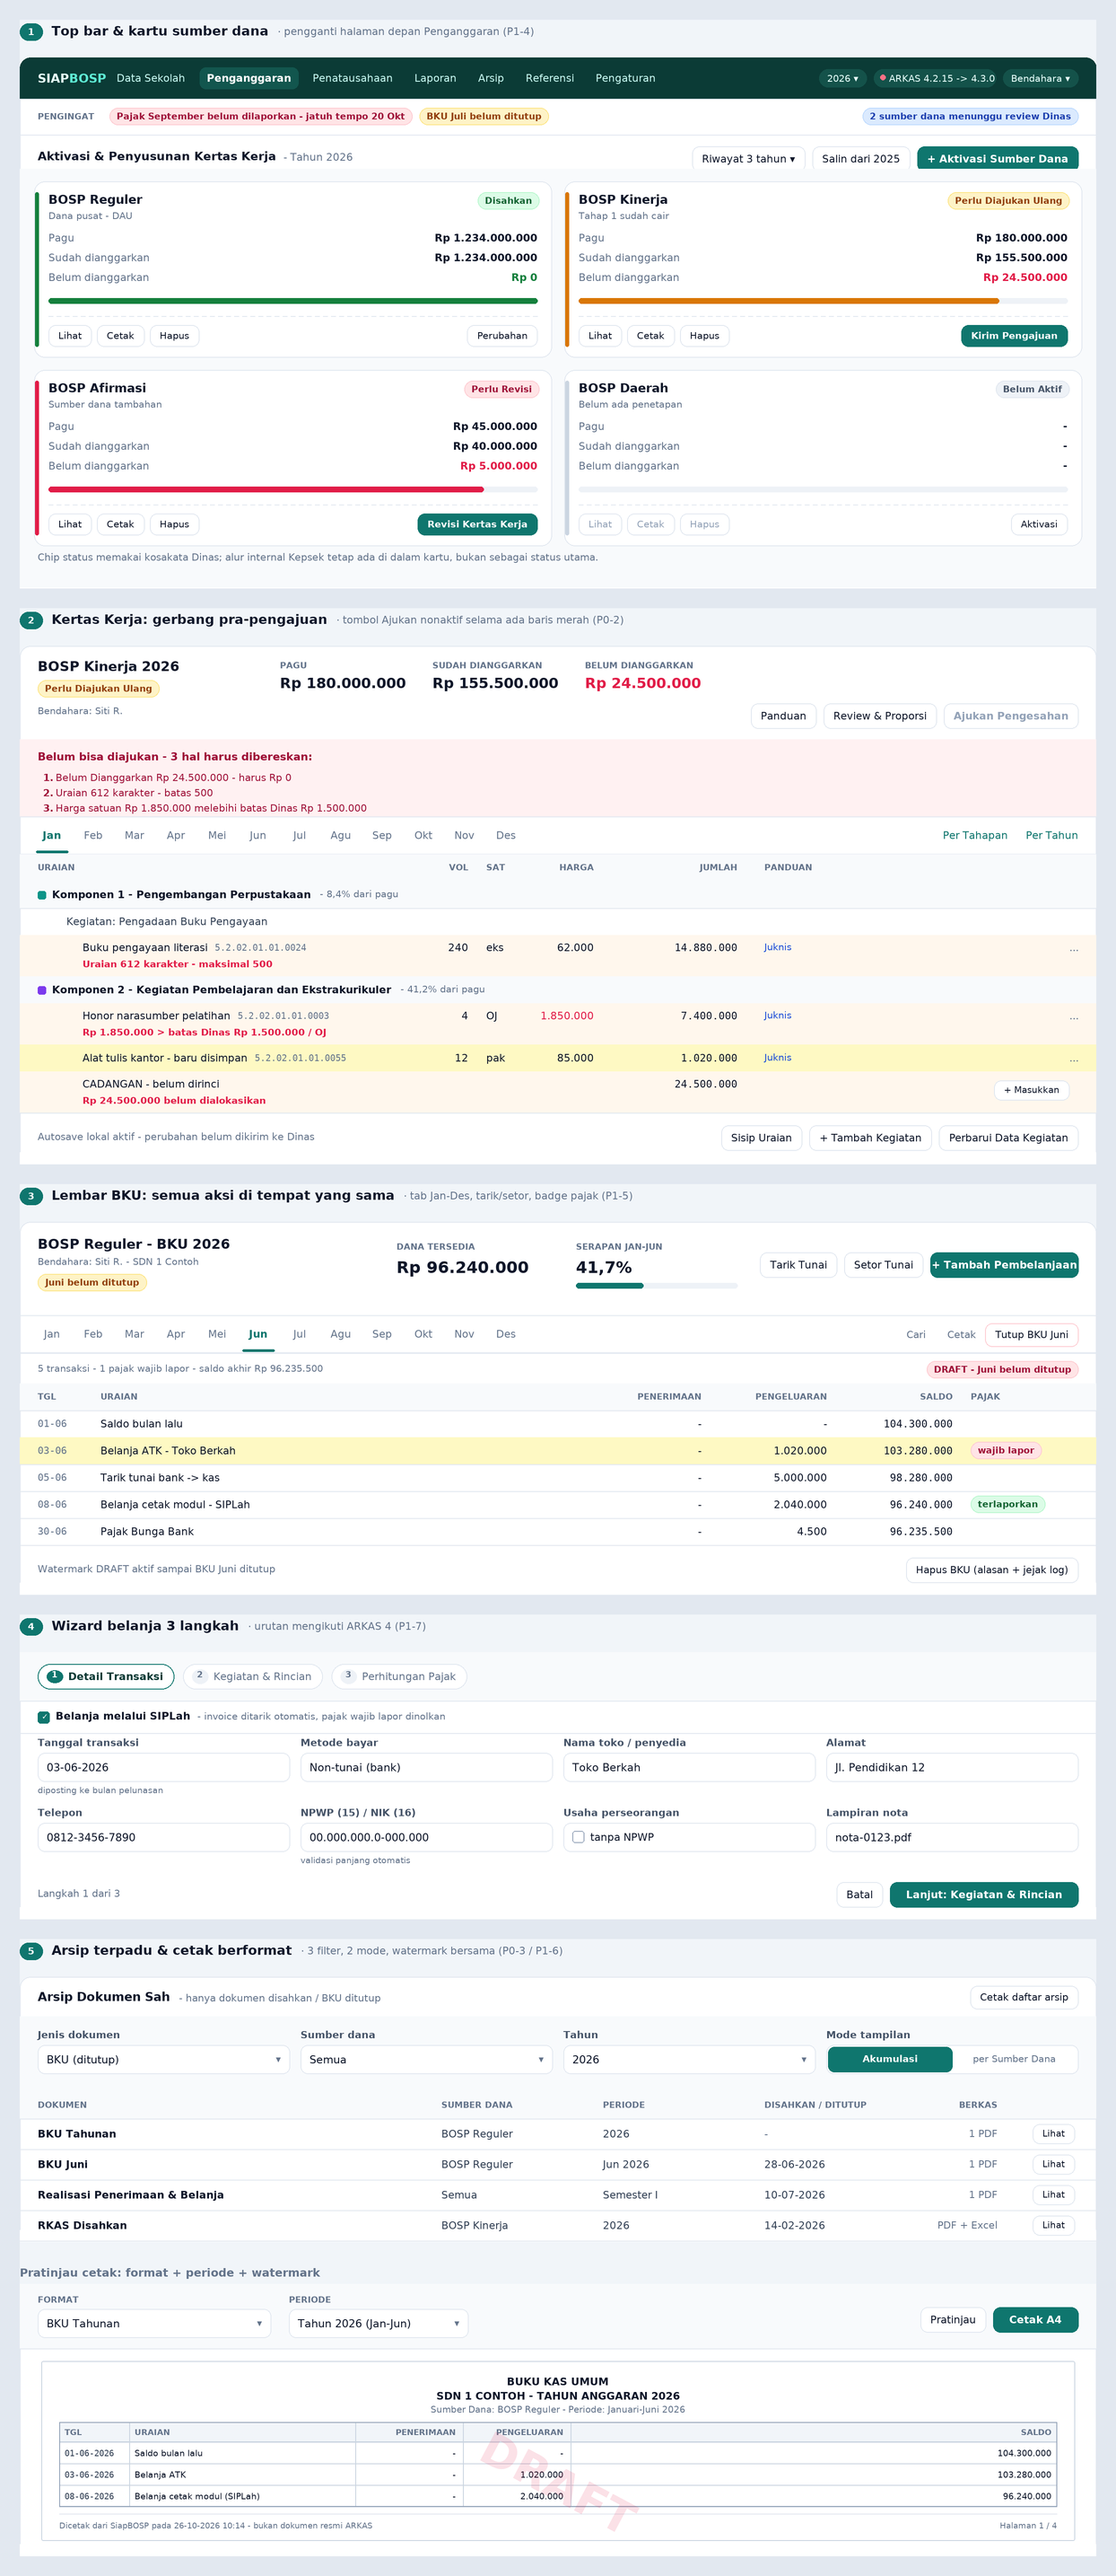
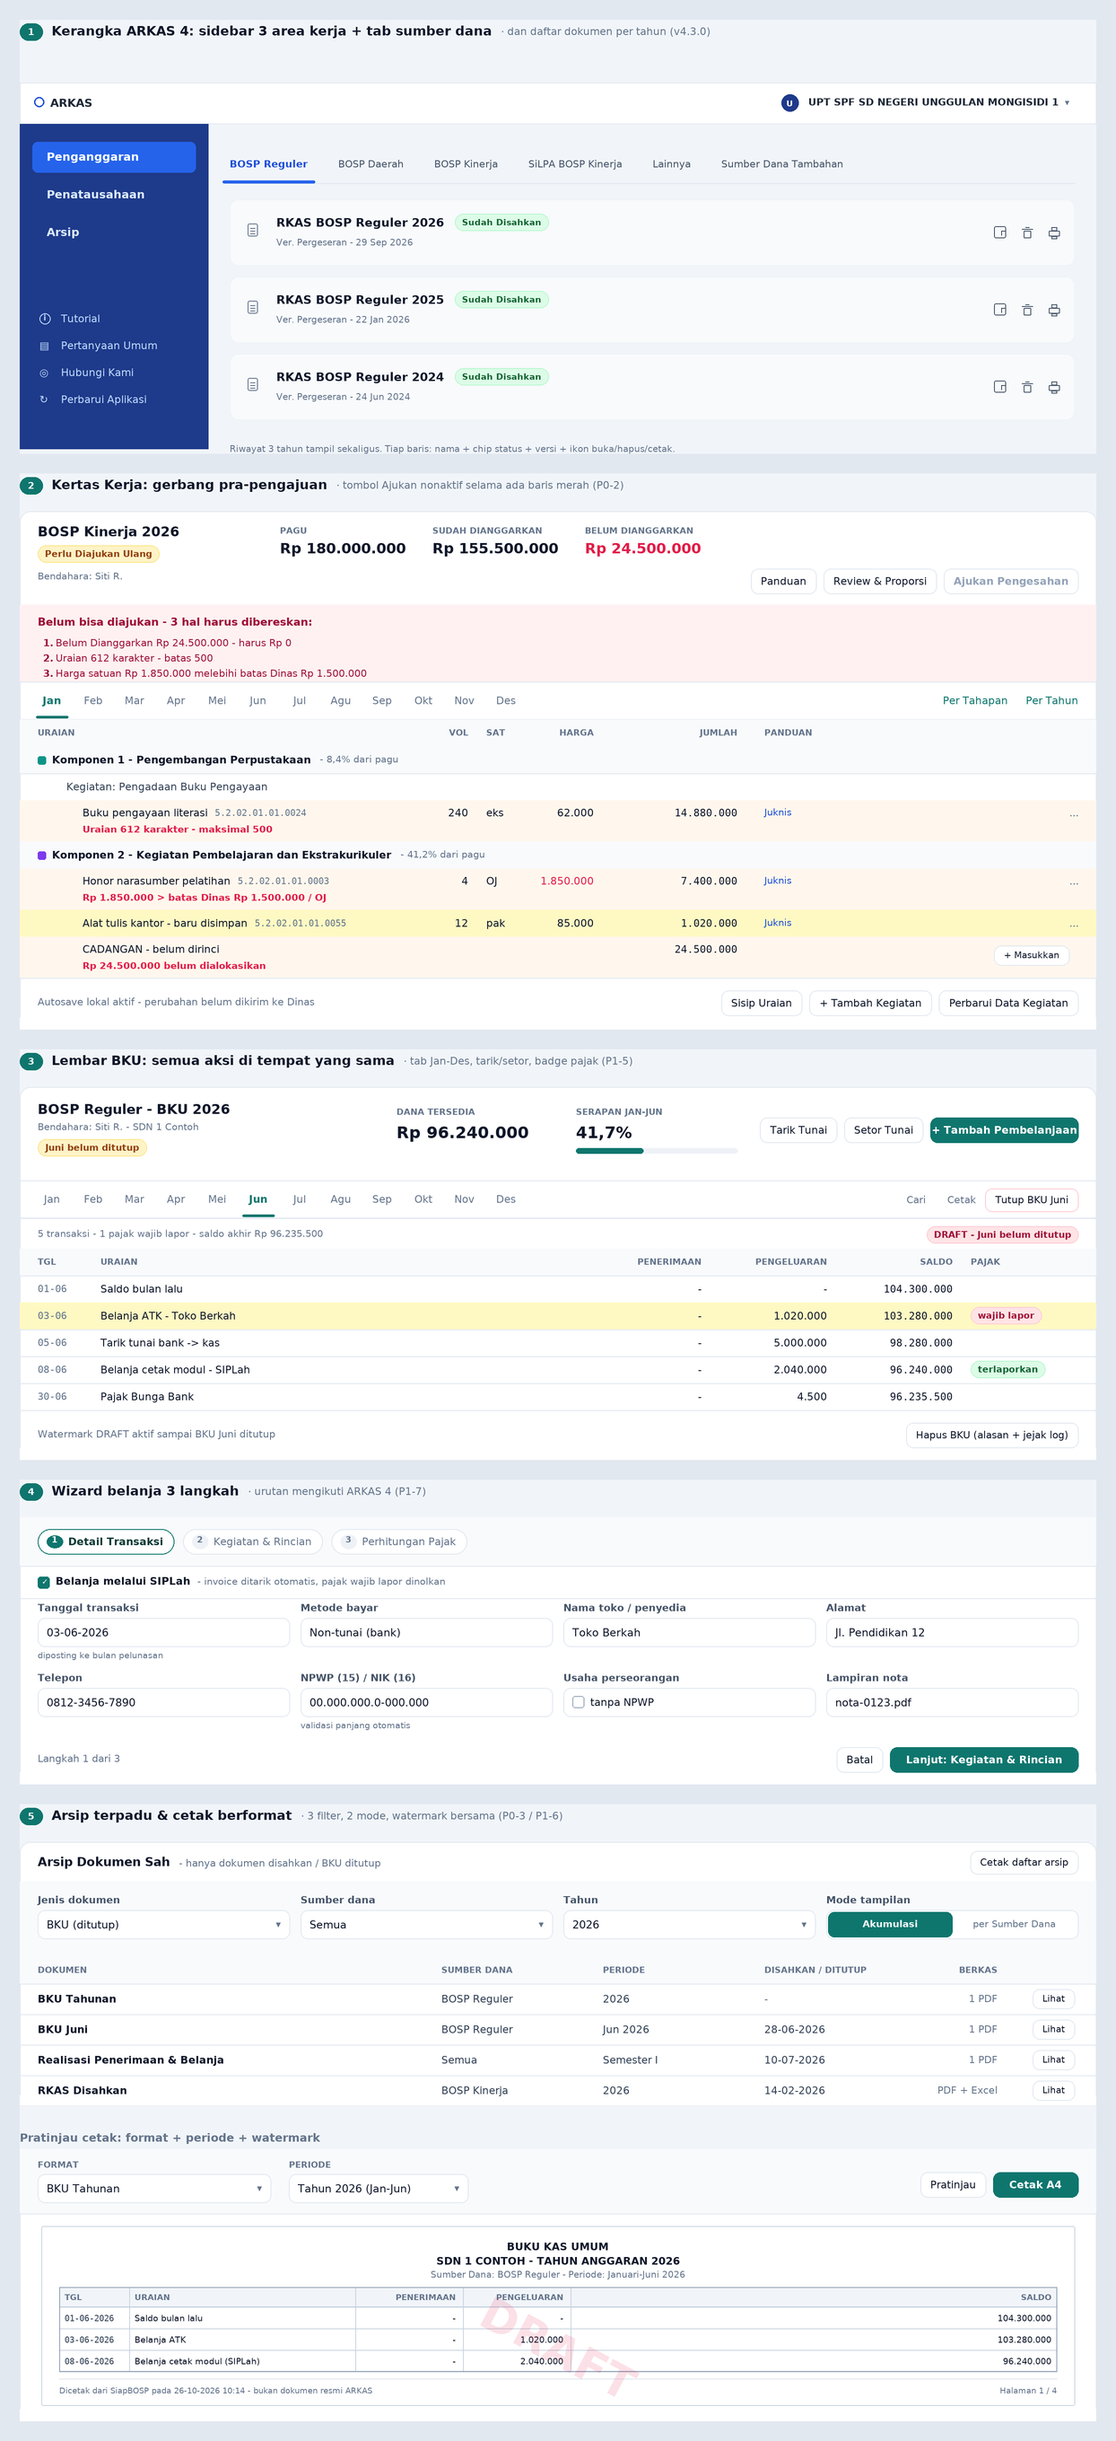
docs(mockup): ganti panel 1 dengan kerangka ARKAS 4 yang benar
Panel 'kartu per sumber dana' tidak sesuai aplikasi aslinya. Diganti dengan
struktur berdasarkan tangkapan layar v4.3.0: topbar identitas (logo + nama
sekolah), sidebar 3 area kerja + utilitas bawah, tab sumber dana, dan daftar
dokumen per tahun dengan chip status + Ver. + ikon buka/hapus/cetak.
Ikon UI digambar sebagai vektor karena glyph-nya tidak tersedia di DejaVu.

diff --git a/docs/mockup/render_mockup.py b/docs/mockup/render_mockup.py
@@ -149,6 +149,26 @@ class P:
         self.img.paste(box, (int(x * S), int(y * S)))
         self.d = ImageDraw.Draw(self.img)
 
+    def ikon(self, x, y, jenis='buka', warna='#475569'):
+        """Ikon garis 14x14 sederhana (glyph UI tidak tersedia di DejaVu)."""
+        if jenis == 'buka':
+            self.rect(x, y, 13, 13, fill=None, stroke=warna, r=2, lw=1)
+            self.d.line([(x + 8) * S, (y + 5) * S, (x + 13) * S, (y + 5) * S], fill=warna, width=S)
+            self.d.line([(x + 8) * S, (y + 5) * S, (x + 8) * S, (y + 10) * S], fill=warna, width=S)
+        elif jenis == 'hapus':
+            self.d.line([(x + 1) * S, (y + 3) * S, (x + 13) * S, (y + 3) * S], fill=warna, width=S)
+            self.rect(x + 3, y + 5, 8, 8, fill=None, stroke=warna, r=1, lw=1)
+            self.d.line([(x + 5) * S, (y + 1) * S, (x + 9) * S, (y + 1) * S], fill=warna, width=S)
+        elif jenis == 'cetak':
+            self.rect(x + 1, y + 5, 12, 6, fill=None, stroke=warna, r=1, lw=1)
+            self.rect(x + 4, y + 1, 6, 4, fill=None, stroke=warna, r=0, lw=1)
+            self.rect(x + 4, y + 11, 6, 3, fill=None, stroke=warna, r=0, lw=1)
+        elif jenis == 'dokumen':
+            self.rect(x, y, 11, 14, fill=None, stroke=warna, r=2, lw=1)
+            for i in range(3):
+                self.d.line([(x + 3) * S, (y + 5 + i * 3) * S, (x + 8) * S, (y + 5 + i * 3) * S],
+                            fill=warna, width=S)
+
     def crop(self, pad=0):
         bg = self.img.getpixel((0, 0))
         diff = ImageChops.difference(self.img, Image.new('RGB', self.img.size, bg))
@@ -176,124 +196,102 @@ def judul(p, no, teks, sub=None):
 
 
 # =====================================================================
-# PANEL 1 — top bar + kartu sumber dana
+# PANEL 1 — kerangka ARKAS 4: sidebar 3 area kerja + tab sumber dana
+#            + daftar dokumen per tahun (sesuai tangkapan layar v4.3.0)
 # =====================================================================
 def panel1(path):
-    TOP, PAD = 42, 16
-    y_top = TOP
-    y_note = y_top + 46
-    y_head = y_note + 40
-    y_grid = y_head + 52
-    ch, gap = 196, 14
-    cw = (W - PAD * 2 - gap) / 2
-    y_end = y_grid + ch * 2 + gap + 16 + 30
+    JUDUL = 40
+    SB = 210                      # lebar sidebar
+    x_konten = SB + 24
+    w_konten = W - x_konten - 24
+
+    y_top = JUDUL + 30            # topbar
+    h_top = 46
+    y_tab = y_top + h_top + 26    # tab sumber dana
+    h_tab = 40
+    y_isi = y_tab + h_tab + 18
+    h_baris = 74
+    n_baris = 3
+    y_end = y_isi + n_baris * h_baris + 3 * 12 + 20
 
     p = P(1200, y_end + 8)
-    judul(p, '1', 'Top bar & kartu sumber dana', '· pengganti halaman depan Penganggaran (P1-4)')
+    judul(p, '1', 'Kerangka ARKAS 4: sidebar 3 area kerja + tab sumber dana',
+          '· dan daftar dokumen per tahun (v4.3.0)')
 
-    p.frame_top(TOP, y_end - TOP)
+    # ---------- topbar ----------
+    p.rect(0, y_top, W, h_top, fill=CARD, stroke=LINE)
+    p.d.ellipse([16 * S, (y_top + 16) * S, 27 * S, (y_top + 27) * S], outline='#1d4ed8', width=int(1.5 * S))
+    p.text(34, y_top + 15, 'ARKAS', 12.5, True, '#1f2937')
+    p.right(W - 30, y_top + 16, '\u25be', 10, color='#64748b')
+    p.right(W - 42, y_top + 15, 'UPT SPF SD NEGERI UNGGULAN MONGISIDI 1', 11, True, '#1f2937')
+    xa = W - 42 - p.tw('UPT SPF SD NEGERI UNGGULAN MONGISIDI 1', 11, True) - 30
+    p.d.ellipse([xa * S, (y_top + 13) * S, (xa + 19) * S, (y_top + 32) * S], fill='#1e3a8a')
+    p.mid(xa + 9.5, y_top + 18, 'U', 9, True, '#ffffff')
 
-    # --- top bar ---
-    p.rect(0, y_top, W, 46, fill=DARK, r=12)
-    p.rect(0, y_top + 30, W, 16, fill=DARK)
-    p.text(20, y_top + 15, 'SIAP', 13.5, True, '#e6fffb')
-    p.text(20 + p.tw('SIAP', 13.5, True), y_top + 15, 'BOSP', 13.5, True, '#5eead4')
-
-    nav = ['Data Sekolah', 'Penganggaran', 'Penatausahaan', 'Laporan', 'Arsip', 'Referensi', 'Pengaturan']
-    nx = 108
-    for i, item in enumerate(nav):
-        twi = p.tw(item, 11.5, bold=(i == 1))
-        if i == 1:
-            p.rect(nx - 8, y_top + 11, twi + 16, 24, fill='#12564e', r=7)
-            p.text(nx, y_top + 16, item, 11.5, True, '#ffffff')
+    # ---------- sidebar ----------
+    p.rect(0, y_top + h_top, SB, y_end - (y_top + h_top), fill='#1e3a8a')
+    nav = [('Penganggaran', True), ('Penatausahaan', False), ('Arsip', False)]
+    yy = y_top + h_top + 26
+    for label, aktif in nav:
+        if aktif:
+            p.rect(14, yy - 6, SB - 28, 34, fill='#2563eb', r=6)
+            p.text(30, yy + 3, label, 12.5, True, '#ffffff')
         else:
-            p.text(nx, y_top + 16, item, 11.5, color='#c7f9f2')
-        nx += twi + 24
+            p.text(30, yy + 3, label, 12.5, True, '#dbeafe')
+        yy += 42
 
-    # right chips
-    cx = W - 20
-    for label, dot in [('Bendahara \u25be', False), ('ARKAS 4.2.15 -> 4.3.0', True), ('2026 \u25be', False)]:
-        cwid = p.tw(label, 10.5) + 18
-        cx -= cwid
-        p.rect(cx, y_top + 13, cwid, 20, fill='#14524a', r=10)
-        if dot:
-            p.d.ellipse([(cx + 7) * S, (y_top + 19) * S, (cx + 13) * S, (y_top + 25) * S],
-                        fill='#fb7185')
-            p.text(cx + 17, y_top + 17, label, 10.5, color='#e6fffb')
+    # utilitas bawah
+    util = [('info', 'Tutorial'), ('\u25a4', 'Pertanyaan Umum'),
+            ('\u25ce', 'Hubungi Kami'), ('\u21bb', 'Perbarui Aplikasi')]
+    yu = y_end - 152
+    for ikon, label in util:
+        if ikon == 'info':
+            p.d.ellipse([22 * S, (yu + 1) * S, 34 * S, (yu + 13) * S], outline='#bfdbfe', width=int(1.2 * S))
+            p.mid(28, yu + 1, 'i', 8.5, True, '#bfdbfe')
         else:
-            p.mid(cx + cwid / 2, y_top + 17, label, 10.5, color='#e6fffb')
-        cx -= 8
+            p.text(22, yu, ikon, 11.5, color='#bfdbfe')
+        p.text(46, yu, label, 11.5, color='#bfdbfe')
+        yu += 30
 
-    # --- baris pengingat ---
-    p.hline(0, W, y_note)
-    p.text(20, y_note + 14, 'PENGINGAT', 9.5, True, MUTE)
-    bw = p.badge(100, y_note + 10, 'Pajak September belum dilaporkan - jatuh tempo 20 Okt', 'rose')
-    p.badge(100 + bw + 8, y_note + 10, 'BKU Juli belum ditutup', 'amber')
-    p.badge(W - 20, y_note + 10, '2 sumber dana menunggu review Dinas', 'blue', right=True)
-    p.hline(0, W, y_head)
+    # ---------- tab sumber dana ----------
+    tabs = ['BOSP Reguler', 'BOSP Daerah', 'BOSP Kinerja', 'SiLPA BOSP Kinerja',
+            'Lainnya', 'Sumber Dana Tambahan']
+    xt = x_konten
+    p.hline(xt, xt + w_konten, y_tab + h_tab, LINE)
+    for i, t in enumerate(tabs):
+        aktif = (i == 0)
+        tw = p.tw(t, 11.0, bold=aktif)
+        if xt + tw > W - 30:
+            break
+        p.text(xt, y_tab + 12, t, 11.0, aktif, '#1d4ed8' if aktif else '#475569')
+        if aktif:
+            p.rect(xt - 8, y_tab + h_tab - 3, tw + 16, 3, fill='#2563eb', r=1.5)
+        xt += tw + 34
 
-    # --- header aksi ---
-    p.text(20, y_head + 16, 'Aktivasi & Penyusunan Kertas Kerja', 13.0, True)
-    p.text(20 + p.tw('Aktivasi & Penyusunan Kertas Kerja', 13.0, True) + 8, y_head + 18,
-           '- Tahun 2026', 11.5, color=MUTE)
-    x = W - 20
-    w = p.btn(x, y_head + 13, '+ Aktivasi Sumber Dana', primary=True, right=True)
-    x -= w + 8
-    w = p.btn(x, y_head + 13, 'Salin dari 2025', right=True)
-    x -= w + 8
-    p.btn(x, y_head + 13, 'Riwayat 3 tahun \u25be', right=True)
-    p.hline(0, W, y_head + 52)
-
-    # --- kartu ---
-    cards = [
-        dict(nama='BOSP Reguler', sub='Dana pusat - DAU', badge=('Disahkan', 'green'),
-             pagu=1234000000, sudah=1234000000, belum=0, pct=1.0, col=GREEN,
-             aksi='Perubahan', hapus=True),
-        dict(nama='BOSP Kinerja', sub='Tahap 1 sudah cair', badge=('Perlu Diajukan Ulang', 'amber'),
-             pagu=180000000, sudah=155500000, belum=24500000, pct=.86, col=AMBER,
-             aksi='Kirim Pengajuan', hapus=True),
-        dict(nama='BOSP Afirmasi', sub='Sumber dana tambahan', badge=('Perlu Revisi', 'rose'),
-             pagu=45000000, sudah=40000000, belum=5000000, pct=.89, col=ROSE,
-             aksi='Revisi Kertas Kerja', hapus=True),
-        dict(nama='BOSP Daerah', sub='Belum ada penetapan', badge=('Belum Aktif', 'slate'),
-             pagu=None, sudah=None, belum=None, pct=0.0, col='#cbd5e1',
-             aksi='Aktivasi', hapus=False),
+    # ---------- baris dokumen ----------
+    yy = y_isi
+    baris = [
+        ('RKAS BOSP Reguler 2026', 'Ver. Pergeseran - 29 Sep 2026', 'Sudah Disahkan', 'green', True),
+        ('RKAS BOSP Reguler 2025', 'Ver. Pergeseran - 22 Jan 2026', 'Sudah Disahkan', 'green', True),
+        ('RKAS BOSP Reguler 2024', 'Ver. Pergeseran - 24 Jun 2024', 'Sudah Disahkan', 'green', True),
     ]
+    for nama, ver, chip, nada, ikon in baris:
+        p.rect(x_konten, yy, w_konten, h_baris, fill='#f8fafc', stroke='#eef2f7', r=10)
+        # ikon dokumen + 3 ikon aksi
+        p.ikon(x_konten + 20, yy + 27, 'dokumen', '#64748b')
+        p.text(x_konten + 52, yy + 18, nama, 13.0, True)
+        bw = p.badge(x_konten + 52 + p.tw(nama, 13.0, True) + 12, yy + 16, chip, nada, size=9.5)
+        p.text(x_konten + 52, yy + 42, ver, 10.0, color=MUTE)
+        if ikon:
+            xi = x_konten + w_konten - 90
+            for jenis in ('buka', 'hapus', 'cetak'):
+                p.ikon(xi, yy + 30, jenis, '#475569')
+                xi += 30
+        yy += h_baris + 12
 
-    p.rect(0, y_grid - PAD + 2, W, y_end - (y_grid - PAD + 2), fill=SOFT)
-    for i, c in enumerate(cards):
-        x = PAD + (i % 2) * (cw + gap)
-        y = y_grid + (i // 2) * (ch + gap)
-        p.rect(x, y, cw, ch, fill=CARD, stroke=LINE, r=12)
-        p.rect(x + 1, y + 12, 4, ch - 24, fill=c['col'], r=2)
-        p.text(x + 16, y + 12, c['nama'], 13.5, True)
-        p.text(x + 16, y + 32, c['sub'], 10.5, color=MUTE)
-        p.badge(x + cw - 14, y + 12, c['badge'][0], c['badge'][1], right=True)
-
-        rows = [('Pagu', c['pagu']), ('Sudah dianggarkan', c['sudah']),
-                ('Belum dianggarkan', c['belum'])]
-        for j, (lab, val) in enumerate(rows):
-            yy = y + 56 + j * 22
-            p.text(x + 16, yy, lab, 11.5, color=MUTE)
-            txt = '-' if val is None else rp(val)
-            col = INK
-            if j == 2 and val is not None:
-                col = GREEN if val == 0 else ROSE
-            p.right(x + cw - 16, yy, txt, 11.5, True, col)
-        p.bar(x + 16, y + 130, cw - 32, c['pct'], color=c['col'])
-        p.dashed(x + 16, x + cw - 16, y + 150)
-
-        bx = x + 16
-        for lab, dis in [('Lihat', c['pagu'] is None), ('Cetak', c['pagu'] is None),
-                         ('Hapus', not c['hapus'])]:
-            bw2 = p.btn(bx, y + 160, lab, h=24, size=10.5, disabled=dis)
-            bx += bw2 + 6
-        p.btn(x + cw - 16, y + 160, c['aksi'], h=24, size=10.5,
-              primary=(c['badge'][1] in ('amber', 'rose')), right=True)
-
-    p.text(20, y_end - 40,
-           'Chip status memakai kosakata Dinas; alur internal Kepsek tetap ada di dalam kartu, bukan sebagai status utama.',
-           11.0, color=MUTE)
+    p.text(x_konten, y_end - 6,
+           'Riwayat 3 tahun tampil sekaligus. Tiap baris: nama + chip status + versi + ikon buka/hapus/cetak.',
+           10.0, color=MUTE)
     p.save(path)
 
 
